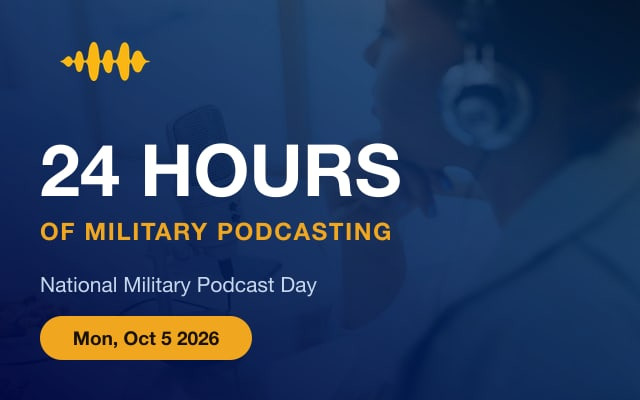
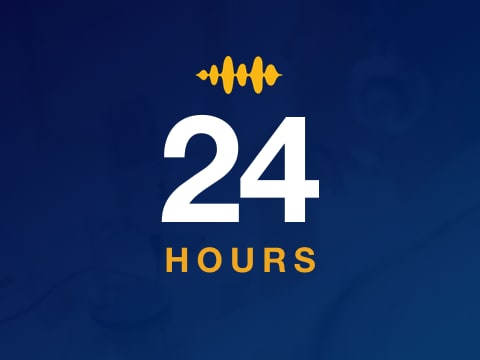
Fix the event card: a row, and a mark that survives being small
My thumbnail was a 640x400 composition — headline, subhead, date pill —
dropped into a 132px-wide crop, so the headline was sliced mid-word and
the date was unreadable. Artwork that small has to be a mark, not a
layout: navy ground, the waveform, a large 24 and HOURS, centred so any
crop keeps it whole. 480x360, 11KB.

The card was also a poster for one line of content: ~180px tall with the
chevron stranded across a field of white. It's a row now — 101px, image
locked to 4:3, title, date, and two status pills. Reads the same whether
you're in one event or six, and an event with no artwork sits at the same
height rather than collapsing.

diff --git a/client/src/components/EventSettings.tsx b/client/src/components/EventSettings.tsx
@@ -106,62 +106,68 @@ export function EventSettings({
     const card = (entry: EventEntry) => {
       const ready = !!entry.show?.showName;
       const booked = entry.slotIndex != null;
+      const timeLabel = booked
+        ? formatTimeInZone(
+            onAirWindow(slotStart(entry.event.startAtUtc, entry.event.slotMinutes, entry.slotIndex!), {
+              onAirMinutes: entry.event.onAirMinutes,
+              bufferMinutes: entry.event.bufferMinutes,
+              bufferPosition: entry.event.bufferPosition,
+            }).start,
+            zone,
+          )
+        : null;
+
       return (
-              <button
-                key={entry.event.id}
-                type="button"
-                onClick={() => setOpenId(entry.event.id)}
-                className="group flex items-stretch gap-0 overflow-hidden rounded-2xl border border-border bg-card text-left transition-colors hover:border-primary/40 hover:shadow-md"
-                data-testid={`button-choose-event-${entry.event.id}`}
-              >
-                {entry.event.imageUrl && (
-                  <img
-                    src={entry.event.imageUrl}
-                    alt=""
-                    className="hidden h-auto w-40 shrink-0 self-stretch object-cover sm:block"
-                    loading="lazy"
-                  />
-                )}
-                <div className="flex min-w-0 flex-1 items-center justify-between gap-4 p-5">
-                <div className="min-w-0">
-                  <div className="text-base font-semibold group-hover:text-primary">{entry.event.name}</div>
-                  <div className="mt-0.5 text-sm text-muted-foreground">
-                    {formatDateInZone(new Date(entry.event.startAtUtc), zone)} · {entry.event.durationHours} hours
-                  </div>
-                  <div className="mt-2 flex flex-wrap items-center gap-2 text-xs">
-                    <span
-                      className={`inline-flex items-center gap-1 rounded-full px-2 py-0.5 font-medium ${
-                        ready ? "bg-primary/10 text-primary" : "border border-border bg-card text-muted-foreground"
-                      }`}
-                    >
-                      {ready ? <Check className="h-3 w-3" /> : null}
-                      {ready ? `Show: ${entry.show!.showName}` : "Show not set up"}
-                    </span>
-                    <span
-                      className={`inline-flex items-center gap-1 rounded-full px-2 py-0.5 font-medium ${
-                        booked ? "bg-[#F0A71F]/20 text-[#8a5d00]" : "border border-border bg-card text-muted-foreground"
-                      }`}
-                    >
-                      <Clock className="h-3 w-3" />
-                      {booked
-                        ? formatTimeInZone(
-                            onAirWindow(
-                              slotStart(entry.event.startAtUtc, entry.event.slotMinutes, entry.slotIndex!),
-                              {
-                                onAirMinutes: entry.event.onAirMinutes,
-                                bufferMinutes: entry.event.bufferMinutes,
-                                bufferPosition: entry.event.bufferPosition,
-                              },
-                            ).start,
-                            zone,
-                          )
-                        : "No time yet"}
-                    </span>
-                  </div>
-                </div>
-                <ChevronRight className="h-5 w-5 shrink-0 text-muted-foreground group-hover:text-primary" />
-                </div>
-              </button>
+        <button
+          key={entry.event.id}
+          type="button"
+          onClick={() => setOpenId(entry.event.id)}
+          // A row, not a poster. One event or six, it reads the same.
+          className="group flex w-full items-stretch overflow-hidden rounded-xl border border-border bg-card text-left transition-colors hover:border-primary/50 hover:bg-[#053877]/[0.02]"
+          data-testid={`button-choose-event-${entry.event.id}`}
+        >
+          {entry.event.imageUrl && (
+            <img
+              src={entry.event.imageUrl}
+              alt=""
+              // Fixed 4:3 so the mark is never sliced by an odd container height.
+              className="hidden aspect-[4/3] w-[132px] shrink-0 object-cover sm:block"
+              loading="lazy"
+            />
+          )}
+
+          <div className="flex min-w-0 flex-1 items-center gap-4 px-4 py-3.5">
+            <div className="min-w-0 flex-1">
+              <div className="truncate text-[15px] font-bold leading-tight text-foreground group-hover:text-primary">
+                {entry.event.name}
+              </div>
+              <div className="mt-0.5 text-[13px] text-muted-foreground">
+                {formatDateInZone(new Date(entry.event.startAtUtc), zone)} · {entry.event.durationHours} hours
+              </div>
+
+              <div className="mt-2 flex flex-wrap items-center gap-1.5 text-[11px]">
+                <span
+                  className={`inline-flex max-w-full items-center gap-1 truncate rounded-full px-2 py-0.5 font-semibold ${
+                    ready ? "bg-primary/10 text-primary" : "border border-dashed border-border text-muted-foreground"
+                  }`}
+                >
+                  {ready && <Check className="h-3 w-3 shrink-0" />}
+                  <span className="truncate">{ready ? entry.show!.showName : "Show not set up"}</span>
+                </span>
+                <span
+                  className={`inline-flex shrink-0 items-center gap-1 rounded-full px-2 py-0.5 font-semibold ${
+                    booked ? "bg-[#F0A71F]/25 text-[#7a5200]" : "border border-dashed border-border text-muted-foreground"
+                  }`}
+                >
+                  <Clock className="h-3 w-3" />
+                  {timeLabel ?? "No time yet"}
+                </span>
+              </div>
+            </div>
+
+            <ChevronRight className="h-5 w-5 shrink-0 text-muted-foreground transition-transform group-hover:translate-x-0.5 group-hover:text-primary" />
+          </div>
+        </button>
       );
     };
 
